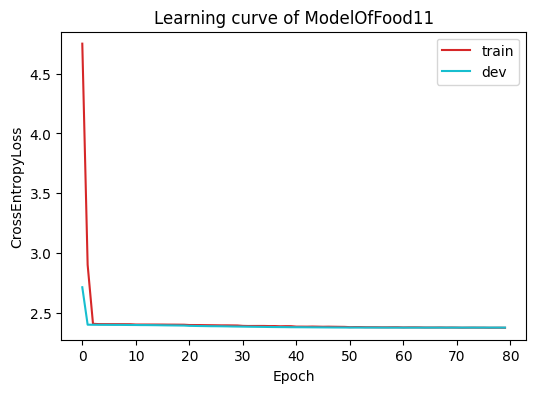
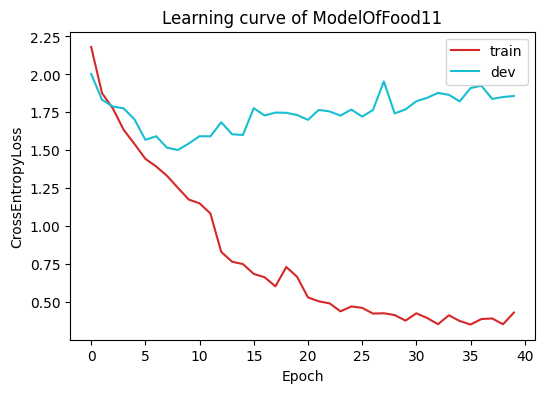
1.找到了运行逻辑错误（训练数据集错误设置shuffle为False，导致模型未能学习到特征）。2.修改了datasetFolder默认标签不是tensor导致不能进行训练的bug，将伪标签更改为int类型与其匹配。3.能正常运行，但是由于训练数据不停增多显得dev_loss一直在增加，但实际上dev_acc最高到达57%左右。

diff --git a/Homework/HW3/project3/src/model.py b/Homework/HW3/project3/src/model.py
@@ -3,12 +3,14 @@ import torch
 from torch import nn, optim
 from torch.utils.data import DataLoader, Dataset
 from tqdm import tqdm
+import torchvision
 
-MAX_EPOCH = 80
+MAX_EPOCH = 40
+SEMI_EPOCH = 10  # 半监督学习的epoch数
 BATCH_SIZE = 32
-LEARNING_RATE = 0.0005
+LEARNING_RATE = 0.0003
 WEIGHT_DECAY = 1e-5
-THRESHOLD = 0.65
+THRESHOLD = 0.70
 do_semi_supervised = True  # 是否进行半监督学习
 
 
@@ -19,6 +21,14 @@ else:
 
 
 class MyModel(nn.Module):
+    """
+    自定义模型
+    该模型为一个简单的卷积神经网络
+    包含3个卷积层和3个全连接层
+    输入为128x128的RGB图像
+    输出为11个类别的概率分布
+    """
+
     def __init__(self):
         super().__init__()
         self.cnn_layers = nn.Sequential(
@@ -75,49 +85,28 @@ def model_training(
     epoch_loss = []
     train_accuracy = 0.0
     dev_accuracy = 0.0
-    min_loss = 100
+    min_loss = 10000
     epoch = 0
     my_optimizer = optim.Adam(
         model.parameters(), lr=LEARNING_RATE, weight_decay=WEIGHT_DECAY
     )
-    scheduler = optim.lr_scheduler.StepLR(
-        my_optimizer, step_size=10, gamma=0.5
-    )  # 学习率衰减
+    scheduler = optim.lr_scheduler.StepLR(my_optimizer, step_size=20, gamma=0.5)
+    # 原始训练数据（不含伪标签）：
+    train_data = dataProcess.create_dataloader(
+        dataset=train_dataset,
+        batch_size=BATCH_SIZE,
+        num_workers=0,
+        shuffle=True,
+    )
 
     while epoch < MAX_EPOCH:
         # 半监督学习：获取伪标签/制造dataloader
-        if do_semi_supervised:
+        if do_semi_supervised and epoch > SEMI_EPOCH and epoch % 3 == 0:
             pseudo_label_dataset = get_pseudo_labels(
                 dataset=unlabeled_dataset, model=model
             )
-            if pseudo_label_dataset is not None:
-                print(
-                    f"Epoch {epoch + 1}: Pseudo-labels generated, size: {len(pseudo_label_dataset)}"
-                )
-                # 将伪标签数据集添加到训练集中
-                ConcatDataset = torch.utils.data.ConcatDataset(
-                    [train_dataset, pseudo_label_dataset]
-                )
-                train_data = dataProcess.create_dataloader(
-                    dataset=ConcatDataset,
-                    batch_size=BATCH_SIZE,
-                    num_workers=0,
-                    shuffle=True,
-                )
-            else:
-                print("制造伪标签失败，继续使用原训练集")
-                train_data = dataProcess.create_dataloader(
-                    dataset=train_dataset,
-                    batch_size=BATCH_SIZE,
-                    num_workers=0,
-                    shuffle=True,
-                )
-        else:
-            train_data = dataProcess.create_dataloader(
-                dataset=train_dataset,
-                batch_size=BATCH_SIZE,
-                num_workers=0,
-                shuffle=True,
+            train_data = generate_pseudo_labeled_data(
+                pseudo_label_dataset=pseudo_label_dataset, train_dataset=train_dataset
             )
 
         model.train()
@@ -148,6 +137,7 @@ def model_training(
         train_loss.append(sum(epoch_loss) / len(epoch_loss))
         train_accuracy /= len(train_data.dataset)
         # 验证集计算loss
+        print("Validating model...")
         val_loss, dev_accuracy = model_validation(model, dev_data)
         dev_loss.append(val_loss)
         # 留作Early stopping
@@ -159,7 +149,7 @@ def model_training(
 
         # 每个epoch结束后，打印当前的损失和准确率
         print(
-            f"Epoch: {epoch + 1}:\tTrain_loss: {train_loss[epoch]:3.6f}, Train Acc: {train_accuracy:3.6f}. | Dev_loss: {val_loss:3.6f}, Dev Acc: {dev_accuracy:3.6f}"
+            f"\n\nEpoch: {epoch + 1}:\tTrain_loss: {train_loss[epoch]:3.6f}, Train Acc: {train_accuracy:3.6f}. | Dev_loss: {val_loss:3.6f}, Dev Acc: {dev_accuracy:3.6f}"
         )
 
         epoch += 1
@@ -193,6 +183,7 @@ def get_pseudo_labels(dataset: Dataset, model: MyModel):
     """
     selected_images = []
     selected_labels = []
+    to_pil_image = torchvision.transforms.ToPILImage()
 
     data_loader = DataLoader(dataset=dataset, batch_size=BATCH_SIZE, shuffle=False)
 
@@ -201,21 +192,26 @@ def get_pseudo_labels(dataset: Dataset, model: MyModel):
 
     for batch in tqdm(data_loader):
         data, _ = batch
+        data = data.to(device)
 
         with torch.no_grad():
             logits = model(data.to(device))
         probabilities = softmax(logits)
         confidence, pseudo_labels = torch.max(probabilities, dim=1)
         mask = confidence > THRESHOLD  # 筛选置信度大于阈值的样本
+        mask = mask.to(device)
 
         if mask.any():
-            selected_images.append(data[mask])  # shape = [N_i, C, H, W]
-            selected_labels.append(pseudo_labels[mask])
+            for img in data[mask]:
+                img = to_pil_image(img)  # 将tensor转换为PIL图像
+                selected_images.append(img)
+            # selected_labels.append(pseudo_labels[mask])  # shape = [N_i, C, H, W]
+            selected_labels.append(pseudo_labels[mask])  # shape = [N_i]
 
     model.train()
     if selected_images:
         # 每一组筛选出的图像的第0维不同（如第一组3张、第二组6张，在第0维将其合并为总的9张）
-        selected_images = torch.cat(selected_images, dim=0)
+        # selected_images = torch.cat(selected_images, dim=0)
         selected_labels = torch.cat(selected_labels, dim=0)
         return dataProcess.PseudoLabelDataset(
             images=selected_images,
@@ -223,6 +219,33 @@ def get_pseudo_labels(dataset: Dataset, model: MyModel):
         )
     else:
         return None
+
+
+def generate_pseudo_labeled_data(pseudo_label_dataset: Dataset, train_dataset: Dataset):
+    if pseudo_label_dataset is not None:
+        print(
+            f"Pseudo-labels generated. len(Psedo_Label_Dataset) = {len(pseudo_label_dataset)}"
+        )
+        # 将伪标签数据集添加到训练集中
+        ConcatDataset = torch.utils.data.ConcatDataset(
+            [train_dataset, pseudo_label_dataset]
+        )
+        train_data = dataProcess.create_dataloader(
+            dataset=ConcatDataset,
+            batch_size=BATCH_SIZE,
+            num_workers=0,
+            shuffle=True,
+        )
+    else:
+        print("制造伪标签失败，继续使用原训练集")
+        train_data = dataProcess.create_dataloader(
+            ataset=train_dataset,
+            batch_size=BATCH_SIZE,
+            num_workers=0,
+            shuffle=True,
+        )
+
+    return train_data
 
 
 # def test(model: MyModel, test_data: DataLoader):

diff --git a/Homework/HW3/project3/src/dataProcess.py b/Homework/HW3/project3/src/dataProcess.py
@@ -2,6 +2,7 @@ from PIL import Image
 from torch.utils.data import DataLoader, Dataset
 from torchvision.datasets import DatasetFolder
 from torchvision.transforms import transforms as transforms
+import torch
 
 
 def create_dataloader(
@@ -10,7 +11,7 @@ def create_dataloader(
     dataloader = DataLoader(
         dataset,
         batch_size=batch_size,
-        shuffle=False,
+        shuffle=shuffle,
         num_workers=num_workers,
         drop_last=False,
     )
@@ -34,29 +35,38 @@ def create_dataset(data_root: str):
         ]
     )
 
+    # 不添加本行将遇到转换后标签为int而不是tensor的错误
+    # 等待优化
+    # def target_tf(y):
+    #     return torch.tensor(y, dtype=torch.int64)
+
     train_dataset = DatasetFolder(
         root=data_root + "training/labeled",
         loader=lambda x: Image.open(x),
         extensions=(".jpg",),
         transform=train_transfrom,
+        # target_transform=target_tf,
     )
     valid_dataset = DatasetFolder(
         root=data_root + "validation",
         loader=lambda x: Image.open(x),
         extensions=(".jpg",),
         transform=test_transfrom,
+        # target_transform=target_tf,
     )
     unlabeled_dataset = DatasetFolder(
         root=data_root + "training/unlabeled",
         loader=lambda x: Image.open(x),
         extensions=(".jpg",),
         transform=train_transfrom,
+        # target_transform=target_tf,
     )
     test_dataset = DatasetFolder(
         root=data_root + "testing",
         loader=lambda x: Image.open(x),
         extensions=(".jpg",),
         transform=test_transfrom,
+        # target_transform=target_tf,
     )
     print("Finishing creating datasets!\n")
 
@@ -68,7 +78,7 @@ class PseudoLabelDataset(Dataset):
         self.images = images
         self.labels = labels
         if transform is None:
-            self.transform = transforms.transforms.Compose(  # online augmentation
+            self.transform = transforms.Compose(  # online augmentation
                 [
                     transforms.RandomResizedCrop(128, scale=(0.8, 1.0)),
                     transforms.RandomHorizontalFlip(),
@@ -87,4 +97,6 @@ class PseudoLabelDataset(Dataset):
         label = self.labels[idx]
         if self.transform:
             image = self.transform(image)
+        if isinstance(label, torch.Tensor):
+            label = (int)(label.item())  # 确保标签是标量
         return image, label

diff --git a/Homework/HW3/project3/src/main.py b/Homework/HW3/project3/src/main.py
@@ -16,13 +16,14 @@ def same_seeds(seed):
     torch.backends.cudnn.deterministic = True
 
 
+# 0.固定随机种子，确保结果可复现
 seed = 42069
 BATCH_SIZE = model.BATCH_SIZE
 NUM_WORKERS = 0
-same_seeds(seed)  # 固定随机种子，确保结果可复现
+same_seeds(seed)
 
-# 检查是否有GPU可用
-# （应用至损失函数、网络模型、数据上）
+
+# 1.检查是否有GPU可用（应用至损失函数、网络模型、数据上）
 print("Checking device...")
 if torch.cuda.is_available():
     device = torch.device("cuda")
@@ -32,7 +33,7 @@ else:
     print("现在没有GPU可用，使用CPU进行训练")
 
 
-# 填入资源文件路径
+# 2.填入资源文件路径
 print("Loading data...")
 data_root = "Homework/resources/HW3/food-11/"  # 此处为项目根目录（即DL2021）
 (train_dataset, valid_dataset, unlabeled_dataset, test_dataset) = (
@@ -40,22 +41,27 @@ data_root = "Homework/resources/HW3/food-11/"  # 此处为项目根目录（即D
 )
 
 
-# 训练集和验证集的划分
+# 3.训练集和验证集的划分
 print("Start creating dataloader")
-# train_dataloader = dataProcess.create_dataloader(
-#     train_dataset, BATCH_SIZE, NUM_WORKERS, shuffle=True
-# )
-test_dataloader = dataProcess.create_dataloader(test_dataset, BATCH_SIZE, NUM_WORKERS)
-valid_dataloader = dataProcess.create_dataloader(valid_dataset, BATCH_SIZE, NUM_WORKERS)
-print("Finishing creating dataLoaders!\n")
+valid_dataloader = dataProcess.create_dataloader(
+    valid_dataset, BATCH_SIZE, NUM_WORKERS, shuffle=False
+)
+test_dataloader = dataProcess.create_dataloader(
+    test_dataset, BATCH_SIZE, NUM_WORKERS, shuffle=False
+)
+print(
+    "Finishing creating dataLoaders!\n"
+)  # 训练数据集由于要加入伪标签数据集，所以不在这里创建
 
 
-# 训练开始
+# 4.训练开始
 print("Start Training:")
 my_model = model.MyModel()
 my_model.to(device)
-
 train_loss, dev_loss = model.model_training(
     train_dataset, unlabeled_dataset, valid_dataloader, my_model
 )
+
+
+# 5.训练结束，结果绘制：
 graphMaking.plot_learning_curve(train_loss, dev_loss, "ModelOfFood11")

diff --git a/Homework/HW3/project3/test/test_resource_loading.py b/Homework/HW3/project3/test/test_resource_loading.py
@@ -81,6 +81,7 @@ print(f"v_dataloader length:\t{len(V_dataloader)}\n")
 print(f"unlabeled_dataset length:\t{len(unlabeled_dataset)}")
 print(f"u_dataloader length:\t{len(U_dataloader)}\n")
 # 查看数据集的标签
-# for data, label in T_dataloader:
-#     print(f"\ndata: \n{data},\n\nlabel:\n{label}")
-#     break
+for data, label in T_dataloader:
+    print(f"\ndata: \n{data},\n\nlabel:\n{label}")
+    print(f"data type:\t{type(data)}, label dtype:\t{label.dtype}")
+    break
